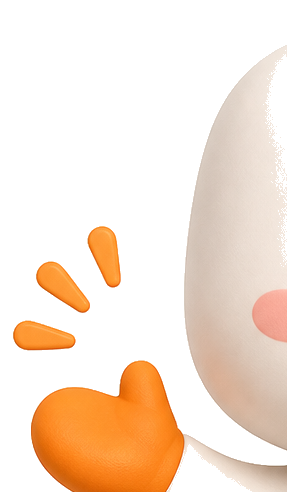
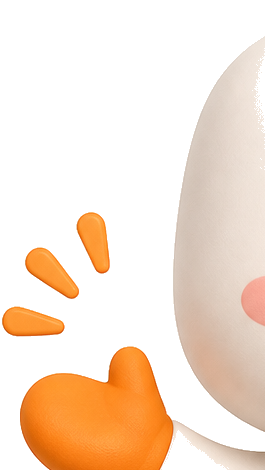
fix(giu): aligned arm wave, tap reactions, play once per view
- Use full-body PNG + arm overlay on shared aspect ratio (fixes white gap)
- Greet animation runs once on mount; tap cycles bubble + matching motion
- Remove 3x repeat; add cheer/show/team touch reactions

diff --git a/giu/components/jiucu/JiucuMerchantHelp.tsx b/giu/components/jiucu/JiucuMerchantHelp.tsx
@@ -1,64 +1,116 @@
 "use client";
 
+import { useCallback, useEffect, useMemo, useState } from "react";
+import type { GiuLocale } from "@/giu/lib/i18n";
+import { t } from "@/giu/lib/i18n";
+
 type Props = {
-  bubble: string;
+  locale: GiuLocale;
   caption?: string;
   className?: string;
 };
 
-/** Merchant publish hero — base body static, waving arm animates separately. */
-export function JiucuMerchantHelp({ bubble, caption, className = "" }: Props) {
+type Motion = "greet" | "cheer" | "show" | "team";
+
+const ARM = {
+  left: 52 / 1024,
+  top: 290 / 1536,
+  width: 265 / 1024,
+  height: 470 / 1536,
+  origin: "78% 62%",
+};
+
+/** Merchant publish hero — full body + overlaid waving arm on shared coordinates. */
+export function JiucuMerchantHelp({ locale, caption, className = "" }: Props) {
+  const reactions = useMemo(
+    () =>
+      [
+        { bubble: t(locale, "jiucuAuthMerchant"), motion: "greet" as Motion },
+        { bubble: t(locale, "jiucuTapCheer"), motion: "cheer" as Motion },
+        { bubble: t(locale, "jiucuTapShow"), motion: "show" as Motion },
+        { bubble: t(locale, "jiucuTapTeam"), motion: "team" as Motion },
+      ] as const,
+    [locale],
+  );
+
+  const [index, setIndex] = useState(0);
+  const [animKey, setAnimKey] = useState(0);
+
+  const active = reactions[index];
+
+  useEffect(() => {
+    setAnimKey((k) => k + 1);
+  }, []);
+
+  const onTap = useCallback(() => {
+    setIndex((i) => (i + 1) % reactions.length);
+    setAnimKey((k) => k + 1);
+  }, [reactions.length]);
+
   return (
     <div className={`flex flex-col items-center gap-2 ${className}`}>
       <div className="relative w-full max-w-[300px]">
-        <div className="giu-jiucu-merchant-bubble absolute left-1/2 top-2 z-20 -translate-x-1/2 whitespace-nowrap rounded-2xl bg-white px-3.5 py-2 text-[12px] font-bold text-giu-ink shadow-[0_4px_18px_rgba(60,42,33,0.08)] ring-1 ring-giu-border/80">
-          {bubble}
+        <div
+          key={`bubble-${index}-${animKey}`}
+          className="giu-jiucu-merchant-bubble absolute left-1/2 top-2 z-20 -translate-x-1/2 max-w-[92%] whitespace-nowrap rounded-2xl bg-white px-3.5 py-2 text-center text-[12px] font-bold text-giu-ink shadow-[0_4px_18px_rgba(60,42,33,0.08)] ring-1 ring-giu-border/80"
+        >
+          {active.bubble}
           <span
             className="absolute -bottom-1.5 left-1/2 h-3 w-3 -translate-x-1/2 rotate-45 bg-white ring-1 ring-giu-border/80"
             aria-hidden
           />
         </div>
 
-        <div className="relative flex min-h-[200px] items-end justify-center overflow-visible rounded-[20px] bg-white px-3 pb-3 pt-12">
+        <button
+          type="button"
+          onClick={onTap}
+          className="giu-tap relative flex w-full min-h-[210px] items-end justify-center overflow-visible rounded-[20px] bg-white px-3 pb-3 pt-12"
+          aria-label="지우쿠와 대화하기"
+        >
           <div
             className="pointer-events-none absolute inset-x-10 bottom-5 h-8 rounded-full bg-[rgba(60,42,33,0.04)] blur-lg"
             aria-hidden
           />
 
-          <div className="giu-jiucu-merchant-jump relative h-[172px] w-[220px] max-w-full">
+          <div
+            key={animKey}
+            className={`giu-jiucu-figure giu-jiucu-motion-${active.motion} relative w-[200px] max-w-full`}
+            style={{ aspectRatio: "1024 / 1536" }}
+          >
             {/* eslint-disable-next-line @next/next/no-img-element */}
             <img
-              src="/giu/jiucu/merchant-help-base.png"
-              alt=""
-              width={220}
-              height={172}
-              className="absolute inset-0 h-full w-full object-contain object-bottom"
+              src="/giu/jiucu/merchant-help-white.png"
+              alt="지우쿠"
+              className="absolute inset-0 h-full w-full select-none"
               draggable={false}
               decoding="async"
-              aria-hidden
             />
             <div
-              className="absolute"
+              className="giu-jiucu-wave-arm-slot pointer-events-none absolute overflow-visible"
               style={{
-                left: "3.8%",
-                top: "17.8%",
-                width: "28%",
-                height: "32%",
+                left: `${ARM.left * 100}%`,
+                top: `${ARM.top * 100}%`,
+                width: `${ARM.width * 100}%`,
+                height: `${ARM.height * 100}%`,
               }}
             >
-              <div className="giu-jiucu-wave-arm h-full w-full">
+              <div
+                className="giu-jiucu-wave-arm h-full w-full"
+                style={{ transformOrigin: ARM.origin }}
+              >
                 {/* eslint-disable-next-line @next/next/no-img-element */}
                 <img
                   src="/giu/jiucu/merchant-help-arm.png"
-                  alt="지우쿠"
-                  className="h-full w-full object-contain object-left-top"
+                  alt=""
+                  className="h-full w-full select-none"
                   draggable={false}
                   decoding="async"
+                  aria-hidden
                 />
               </div>
             </div>
           </div>
-        </div>
+        </button>
       </div>
 
       {caption ? (

diff --git a/giu/styles/giu.css b/giu/styles/giu.css
@@ -611,114 +611,135 @@
   display: block;
 }
 
-/* Merchant help — body jumps; waving arm rotates separately */
-.giu-jiucu-merchant-jump {
-  animation: giu-jiucu-jump-cycle 4.5s ease-in-out 3 forwards;
+/* Merchant help — motion presets (play once per mount / tap) */
+.giu-jiucu-figure {
+  transform: translateY(0);
 }
 
-.giu-jiucu-wave-arm {
-  transform-origin: 84% 70%;
-  animation: giu-jiucu-arm-wave-cycle 4.5s ease-in-out 3 forwards;
+.giu-jiucu-wave-arm-slot {
+  z-index: 2;
 }
 
 .giu-jiucu-merchant-bubble {
-  animation: giu-jiucu-bubble 3.2s ease-in-out infinite;
+  animation: giu-jiucu-bubble-pop 0.38s cubic-bezier(0.22, 1, 0.36, 1) 1;
 }
 
-@keyframes giu-jiucu-jump-cycle {
+.giu-jiucu-motion-greet {
+  animation: giu-jiucu-jump-once 1.35s ease-in-out 1 forwards;
+}
+
+.giu-jiucu-motion-greet .giu-jiucu-wave-arm,
+.giu-jiucu-motion-team .giu-jiucu-wave-arm {
+  animation: giu-jiucu-arm-wave-once 1.35s ease-in-out 1 forwards;
+}
+
+.giu-jiucu-motion-cheer {
+  animation: giu-jiucu-cheer 1.15s ease-in-out 1 forwards;
+}
+
+.giu-jiucu-motion-show {
+  animation: giu-jiucu-show 1.2s ease-in-out 1 forwards;
+}
+
+.giu-jiucu-motion-team {
+  animation: giu-jiucu-team-hop 1.35s ease-in-out 1 forwards;
+}
+
+@keyframes giu-jiucu-bubble-pop {
+  from {
+    opacity: 0;
+    transform: translateX(-50%) translateY(6px) scale(0.94);
+  }
+  to {
+    opacity: 1;
+    transform: translateX(-50%) translateY(0) scale(1);
+  }
+}
+
+@keyframes giu-jiucu-jump-once {
   0%,
   100% {
     transform: translateY(0);
   }
-  2% {
-    transform: translateY(-14px);
+  14% {
+    transform: translateY(-15px);
   }
-  4.5%,
-  33% {
-    transform: translateY(0);
-  }
-  35% {
-    transform: translateY(-14px);
-  }
-  37.5%,
-  66% {
-    transform: translateY(0);
-  }
-  68% {
-    transform: translateY(-14px);
-  }
-  70.5%,
-  79% {
+  28% {
     transform: translateY(0);
   }
 }
 
-@keyframes giu-jiucu-arm-wave-cycle {
+@keyframes giu-jiucu-arm-wave-once {
   0%,
-  4.5%,
-  13%,
-  33%,
-  37.5%,
-  46%,
-  66%,
-  70.5%,
-  79%,
+  24%,
   100% {
     transform: rotate(0deg);
   }
-  6% {
-    transform: rotate(16deg);
+  32% {
+    transform: rotate(13deg);
   }
-  7% {
-    transform: rotate(4deg);
-  }
-  8% {
-    transform: rotate(16deg);
-  }
-  9% {
-    transform: rotate(4deg);
-  }
-  10% {
-    transform: rotate(16deg);
-  }
-  11% {
-    transform: rotate(4deg);
-  }
-  39% {
-    transform: rotate(16deg);
-  }
-  40% {
-    transform: rotate(4deg);
-  }
-  41% {
-    transform: rotate(16deg);
-  }
-  42% {
-    transform: rotate(4deg);
-  }
-  43% {
-    transform: rotate(16deg);
+  38% {
+    transform: rotate(3deg);
   }
   44% {
-    transform: rotate(4deg);
+    transform: rotate(13deg);
   }
-  72% {
-    transform: rotate(16deg);
+  50% {
+    transform: rotate(3deg);
   }
-  73% {
-    transform: rotate(4deg);
+  56% {
+    transform: rotate(13deg);
   }
-  74% {
-    transform: rotate(16deg);
+  62% {
+    transform: rotate(3deg);
   }
-  75% {
-    transform: rotate(4deg);
+}
+
+@keyframes giu-jiucu-cheer {
+  0%,
+  100% {
+    transform: translateY(0) scale(1);
   }
-  76% {
-    transform: rotate(16deg);
+  18% {
+    transform: translateY(-8px) scale(1.03);
   }
-  77% {
-    transform: rotate(4deg);
+  36% {
+    transform: translateY(0) scale(1);
+  }
+  52% {
+    transform: translateY(-5px) scale(1.02);
+  }
+  68% {
+    transform: translateY(0) scale(1);
+  }
+}
+
+@keyframes giu-jiucu-show {
+  0%,
+  100% {
+    transform: translateY(0) rotate(0deg);
+  }
+  20% {
+    transform: translateY(-3px) rotate(-2deg);
+  }
+  45% {
+    transform: translateY(-1px) rotate(2deg);
+  }
+  70% {
+    transform: translateY(-4px) rotate(0deg);
+  }
+}
+
+@keyframes giu-jiucu-team-hop {
+  0%,
+  100% {
+    transform: translateY(0) scale(1);
+  }
+  16% {
+    transform: translateY(-10px) scale(1.02);
+  }
+  32% {
+    transform: translateY(0) scale(1);
   }
 }
 
@@ -733,9 +754,9 @@
 }
 
 @media (prefers-reduced-motion: reduce) {
-  .giu-jiucu-merchant-jump,
+  .giu-jiucu-figure,
   .giu-jiucu-wave-arm,
   .giu-jiucu-merchant-bubble {
-    animation: none;
+    animation: none !important;
   }
 }

diff --git a/giu/lib/i18n.ts b/giu/lib/i18n.ts
@@ -149,6 +149,9 @@ const KO: Dict = {
   jiucuMapEmpty: "지우쿠가 아직 발견한 상품이 없어요. 알림을 켜두면 생기는 순간 알려드릴게요!",
   jiucuAuthCustomer: "오늘도 맛있는 발견!",
   jiucuAuthMerchant: "지우쿠가 판매를 도와드릴게요!",
+  jiucuTapCheer: "오늘도 파이팅이에요, 사장님!",
+  jiucuTapShow: "손님한테 예쁘게 보여드릴게요!",
+  jiucuTapTeam: "같이 잘 팔아봐요!",
   jiucuPublishIdle: "상품만 알려주시면 지우쿠가 손님에게 보여드릴게요",
   pickupSoon: "픽업 임박",
   qtyUrgent: "수량 얼마 안 남음",

diff --git a/giu/components/MerchantPublishFlow.tsx b/giu/components/MerchantPublishFlow.tsx
@@ -442,10 +442,7 @@ export function MerchantPublishFlow({ locale, merchant, boxes, onPublished }: Pr
 
       {view === "idle" ? (
         <div className="space-y-3">
-          <JiucuMerchantHelp
-            bubble={t(locale, "jiucuAuthMerchant")}
-            caption={t(locale, "jiucuPublishIdle")}
-          />
+          <JiucuMerchantHelp locale={locale} caption={t(locale, "jiucuPublishIdle")} />
           <button
             type="button"
             onClick={openCompose}

diff --git a/giu/lib/deploy-version.ts b/giu/lib/deploy-version.ts
@@ -1,2 +1,2 @@
 /** Bump when shipping customer/merchant UX that must be visible on giucuu.com. */
-export const GIU_DEPLOY_VERSION = "2026-08-18-jiucu-merchant-only";
+export const GIU_DEPLOY_VERSION = "2026-08-19-jiucu-arm-touch";
